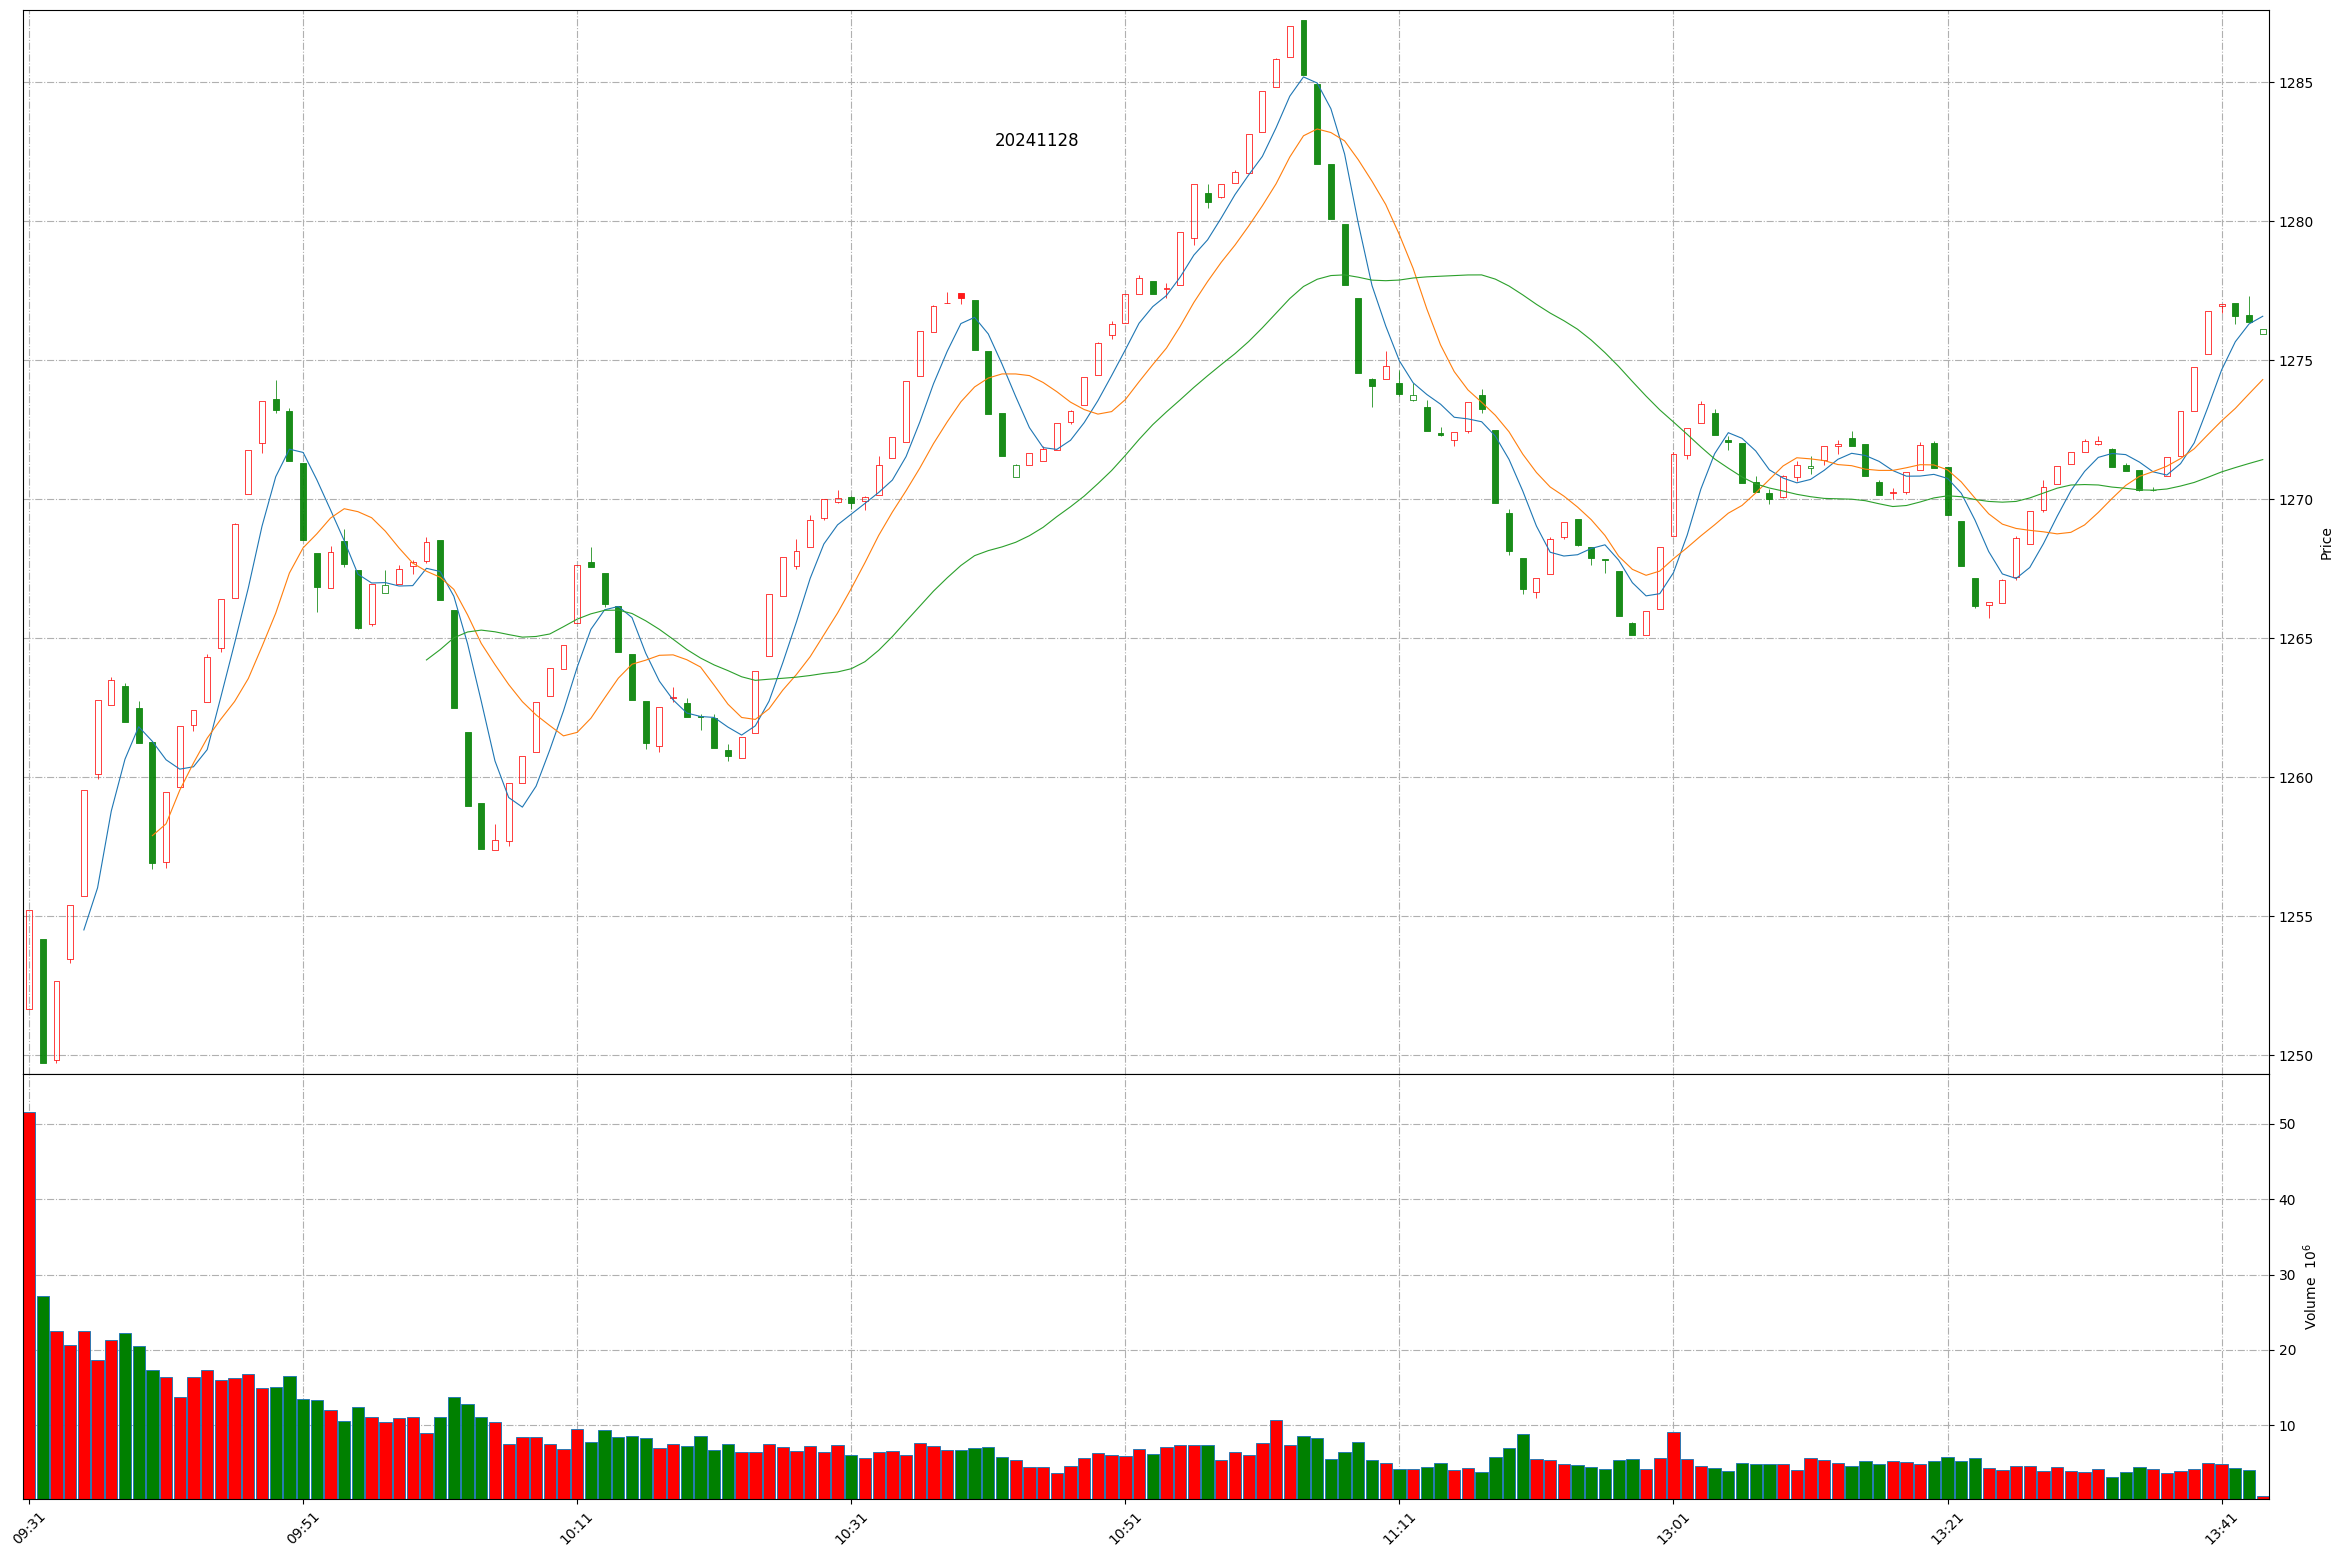
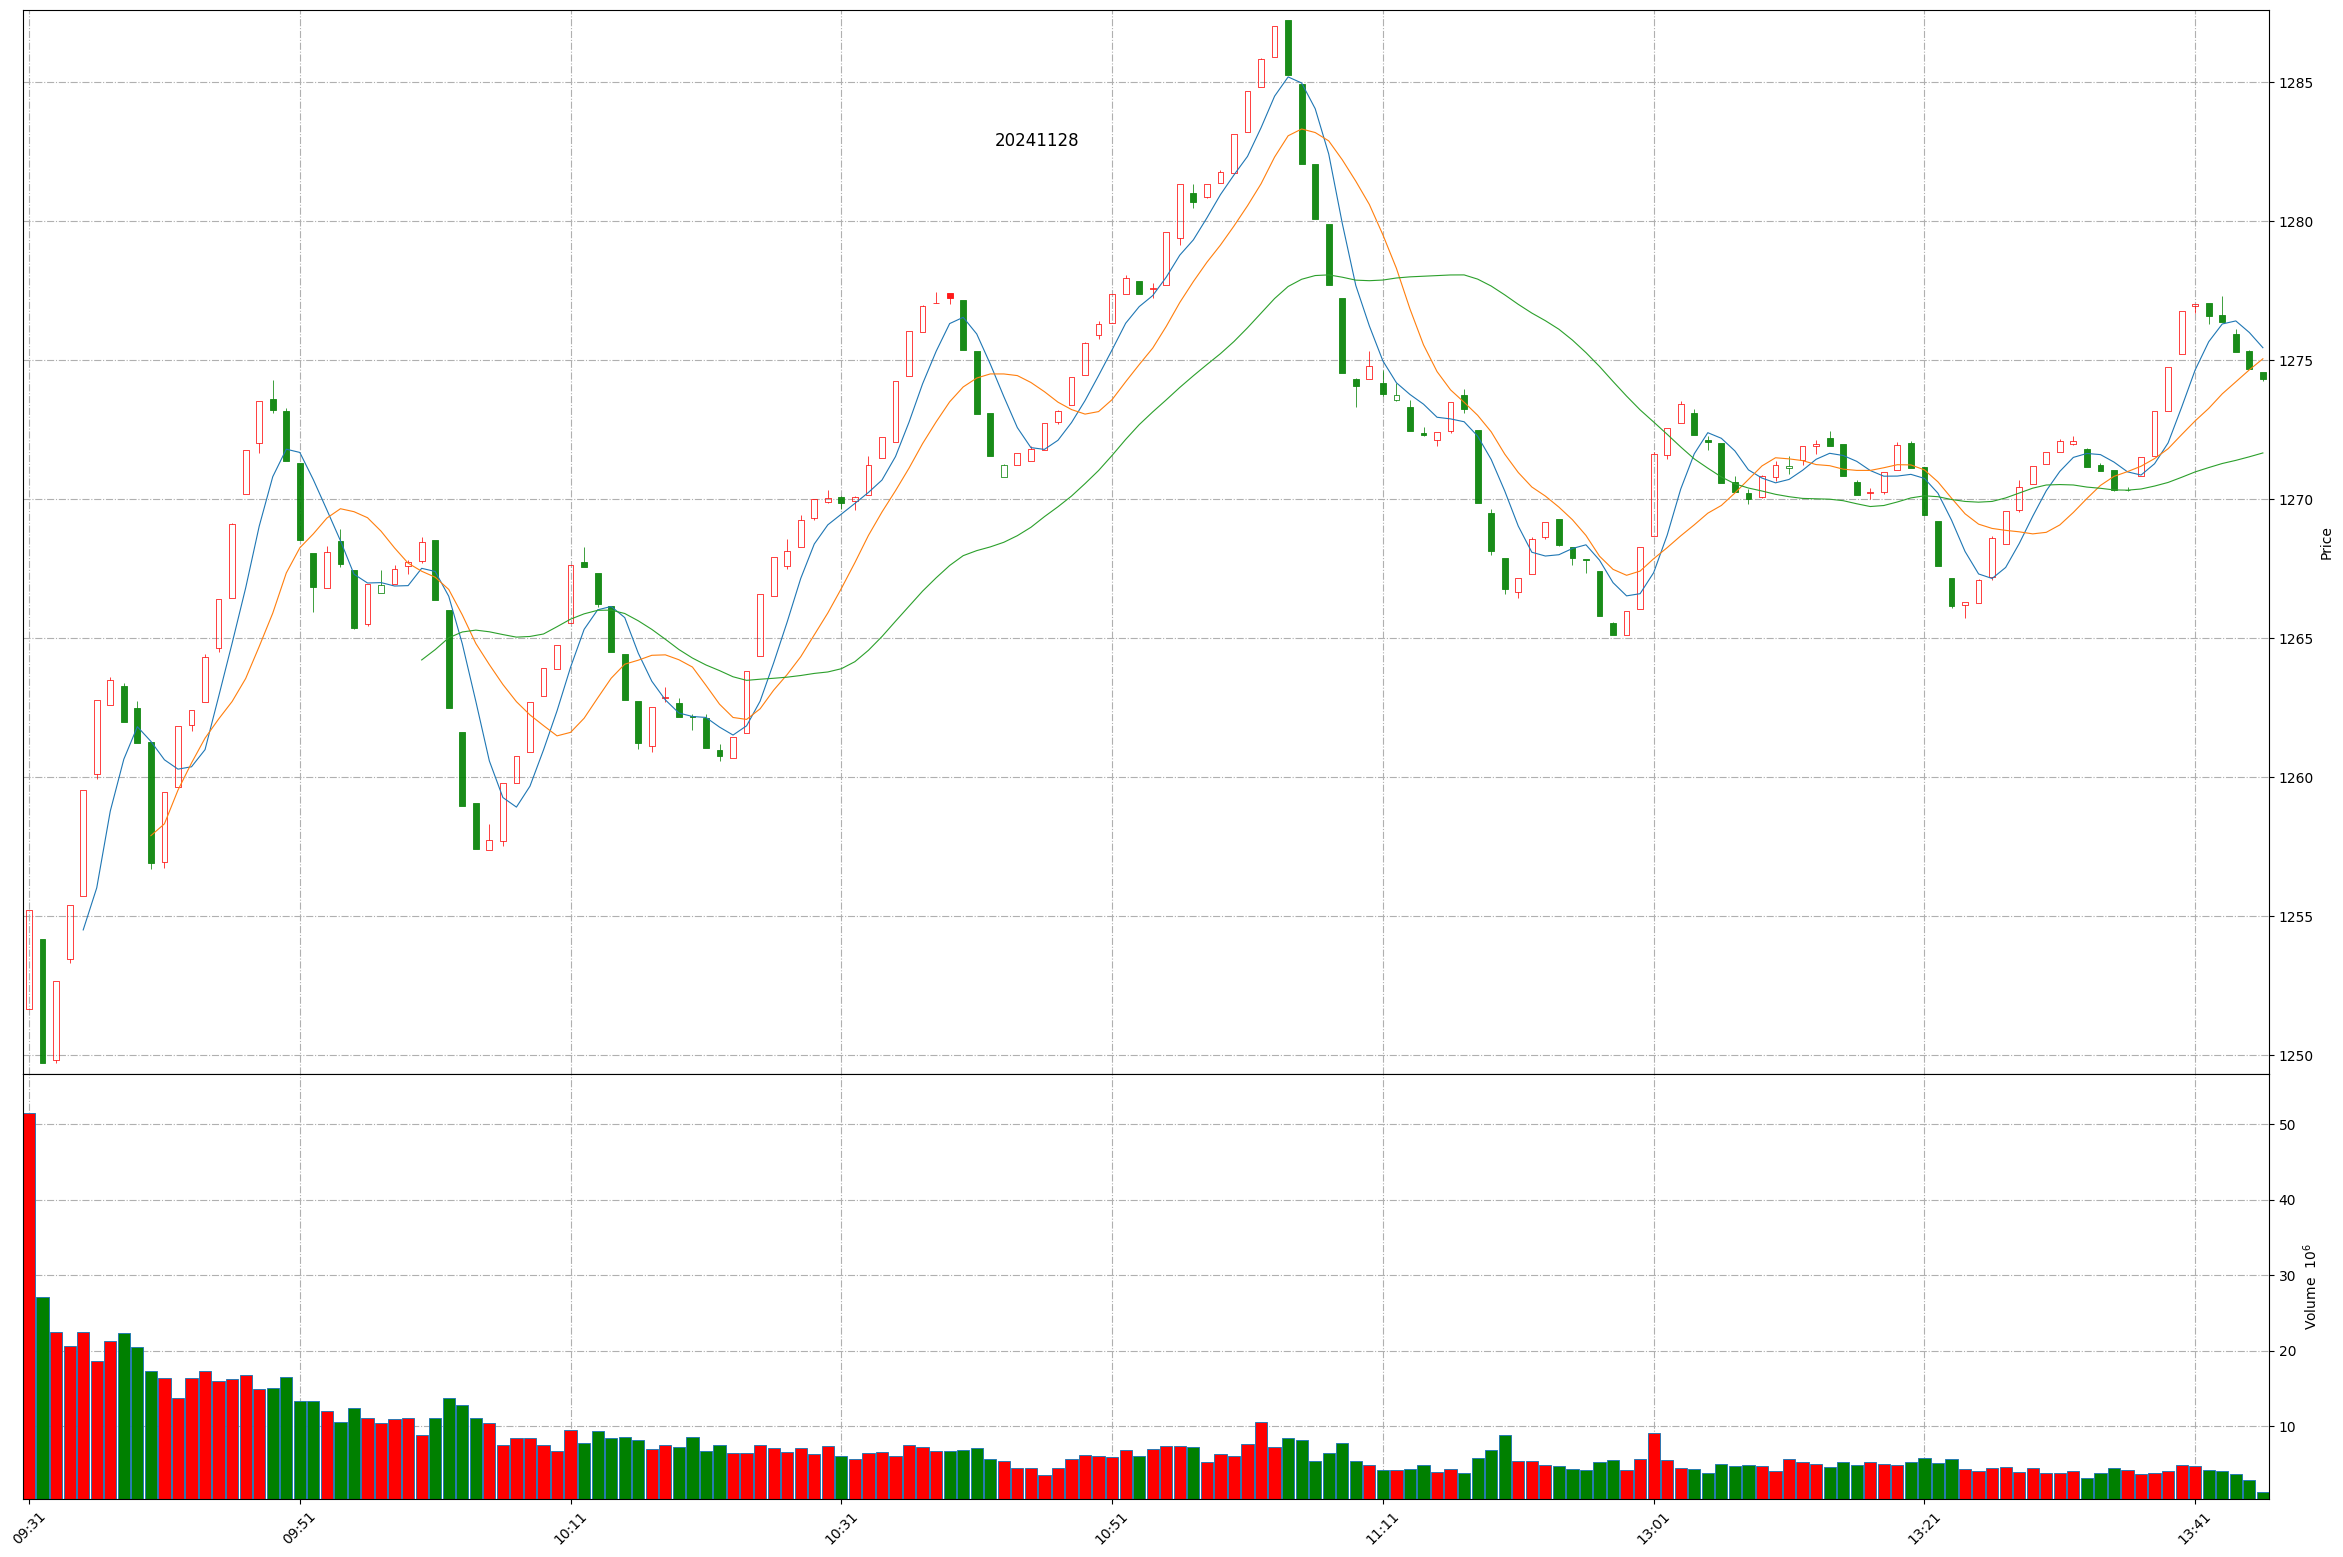
Github action update at 2024-11-28 13:45:41.

diff --git a/README.md b/README.md
@@ -1,11 +1,11 @@
 
 # Daily-A-share-market-quotes 每日 A 股指数（5min 更新）- 20241128
 
-### 上证指数 20241128 13:43
+### 上证指数 20241128 13:45
 ![](./fig/2024/11/20241128-sh000001.png)
 
-### 深证成指 20241128 13:43
+### 深证成指 20241128 13:45
 ![](./fig/2024/11/20241128-sz399001.png)
 
-### 北证50 20241128 13:43
+### 北证50 20241128 13:45
 ![](./fig/2024/11/20241128-bj899050.png)
